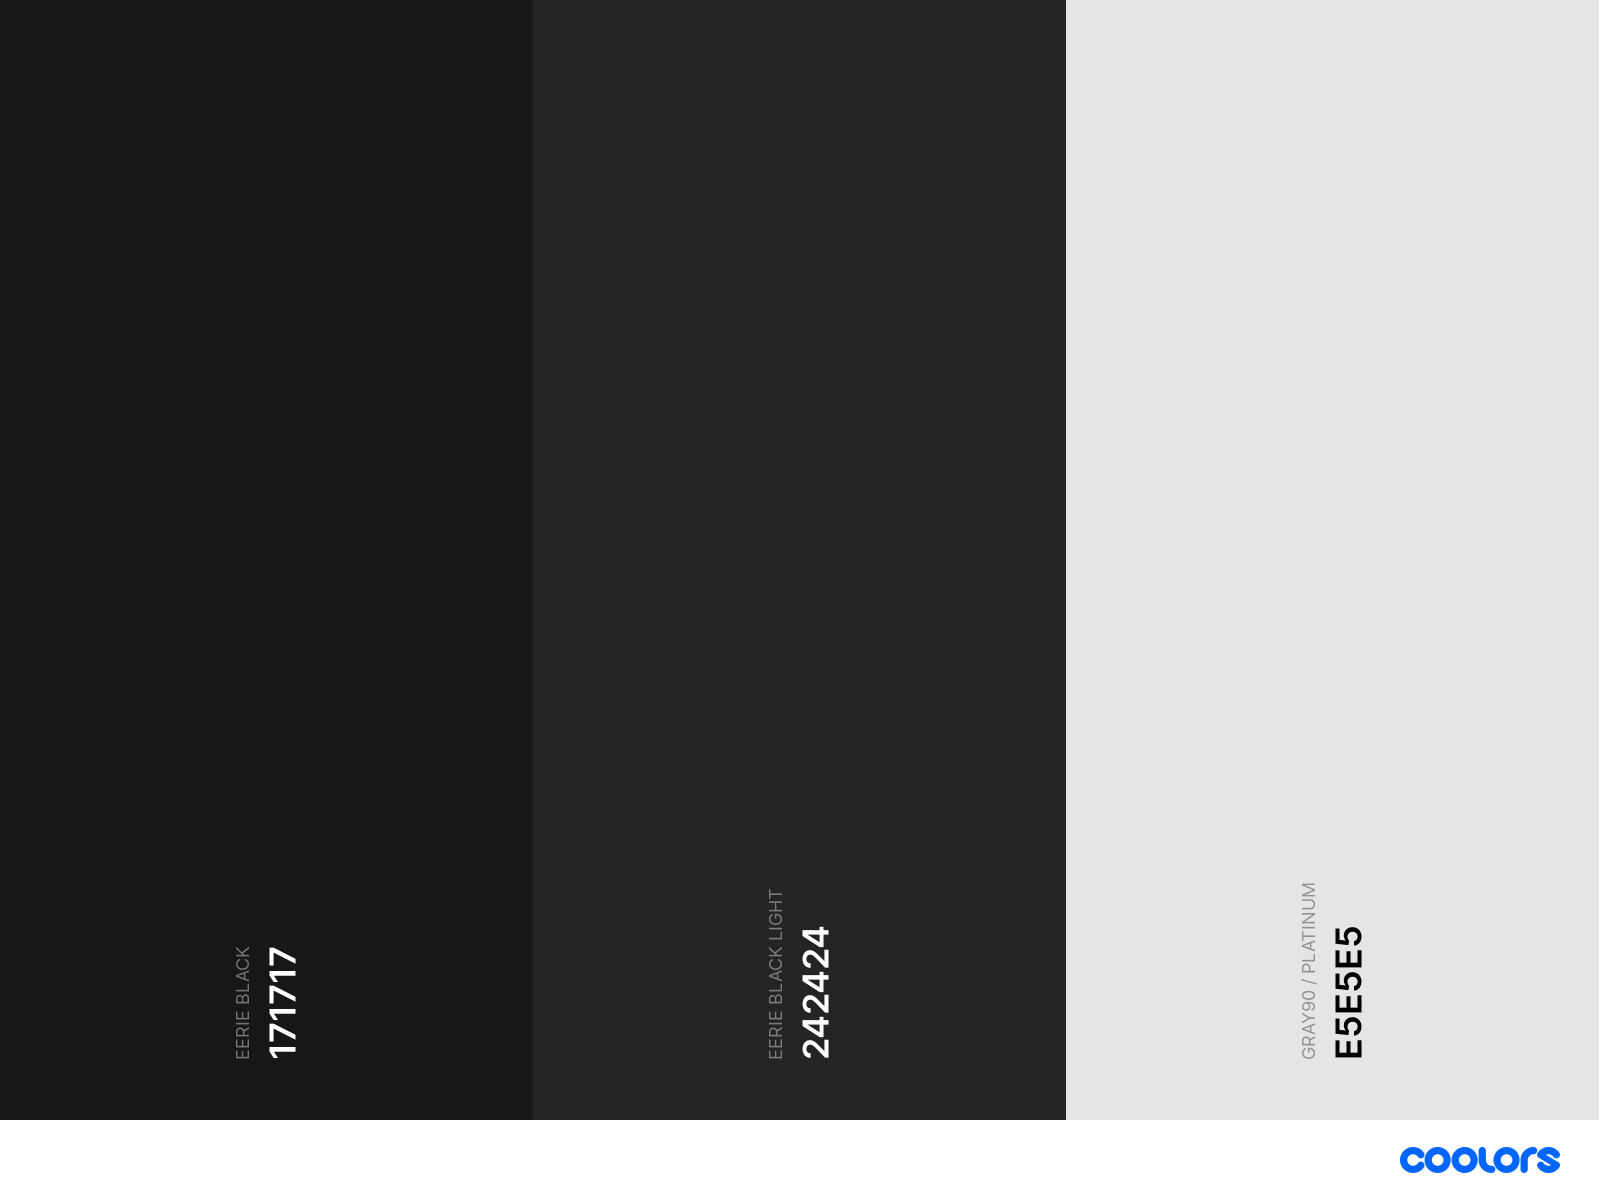
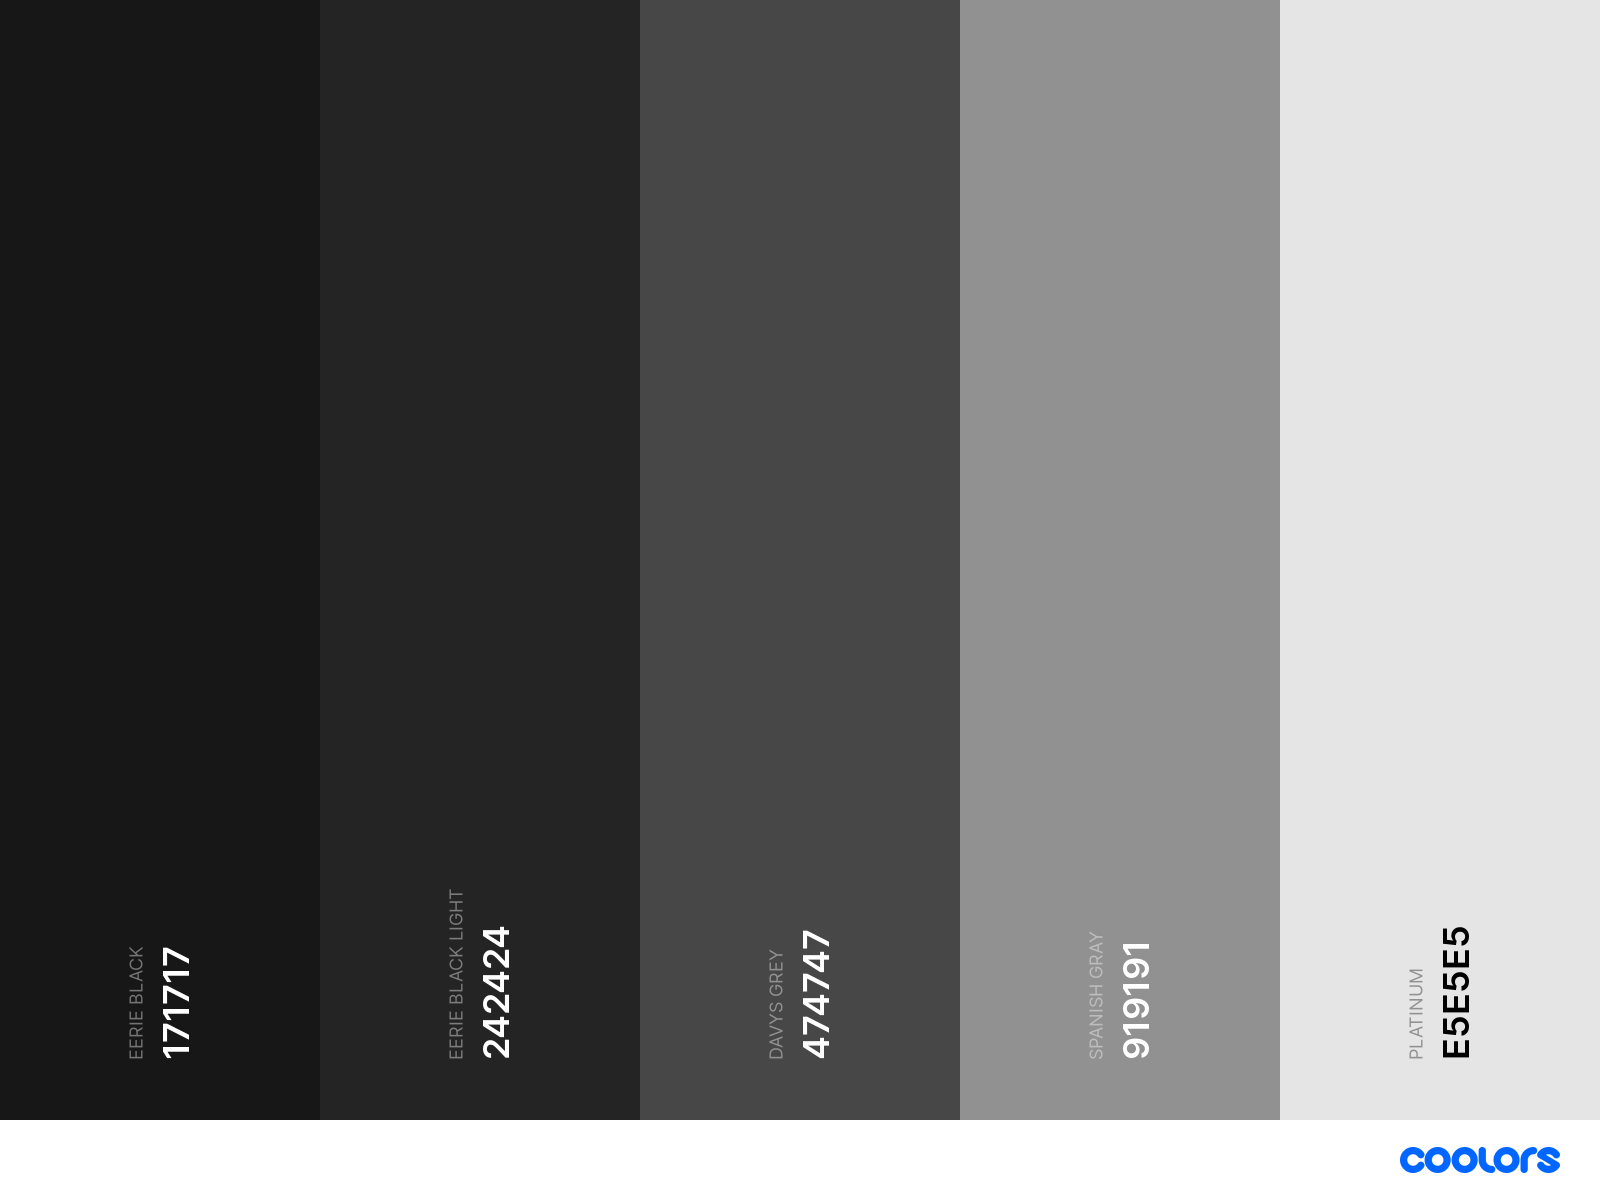
update README

diff --git a/README.md b/README.md
@@ -23,9 +23,11 @@ This theme uses several base colors to get a nice green look. The main color is 
 
 | Name              | hex code   |
 |-------------------|------------|
-| eerie black       | `#171717`  |
-| eerie black light | `#242424`  |
-| gray 90 /platinum | `#e5e5e5`  |
+| Eerie Black       | `#171717`  |
+| Eerie Black Light | `#242424`  |
+| Davys Grey        | `#474747`  |
+| Spanish Gray      | `#919191`  |
+| Platinum          | `#e5e5e5`  |
 
 ![Dark](res/dark.png)
 
